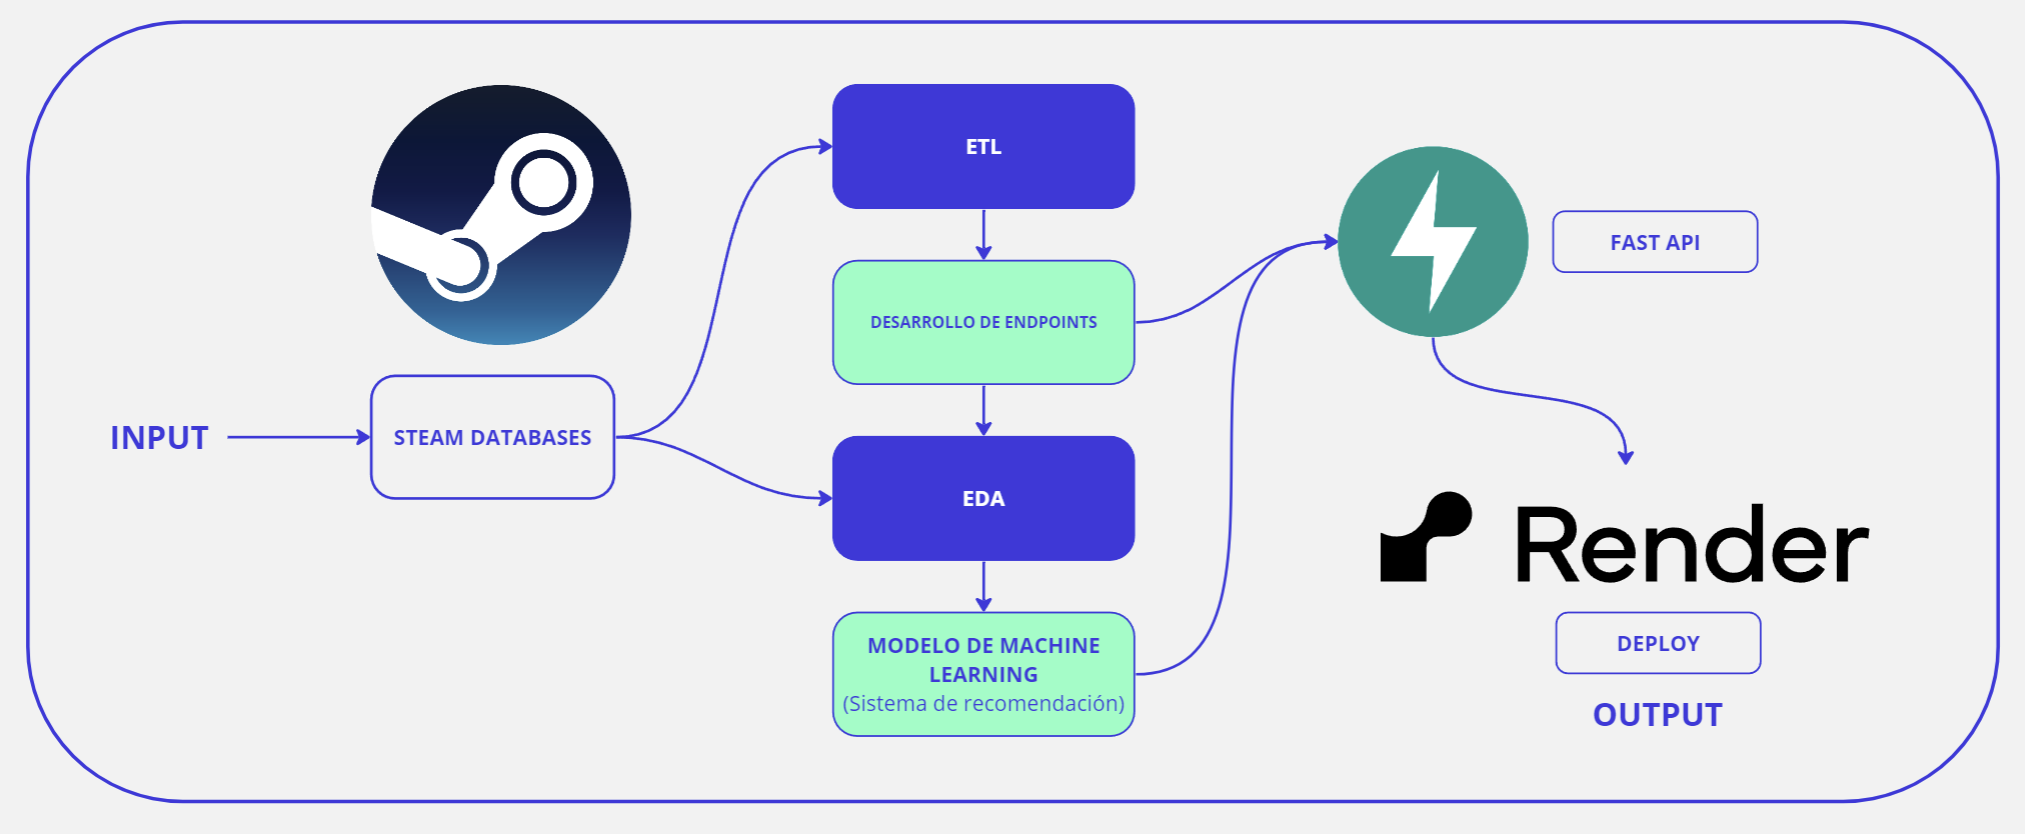
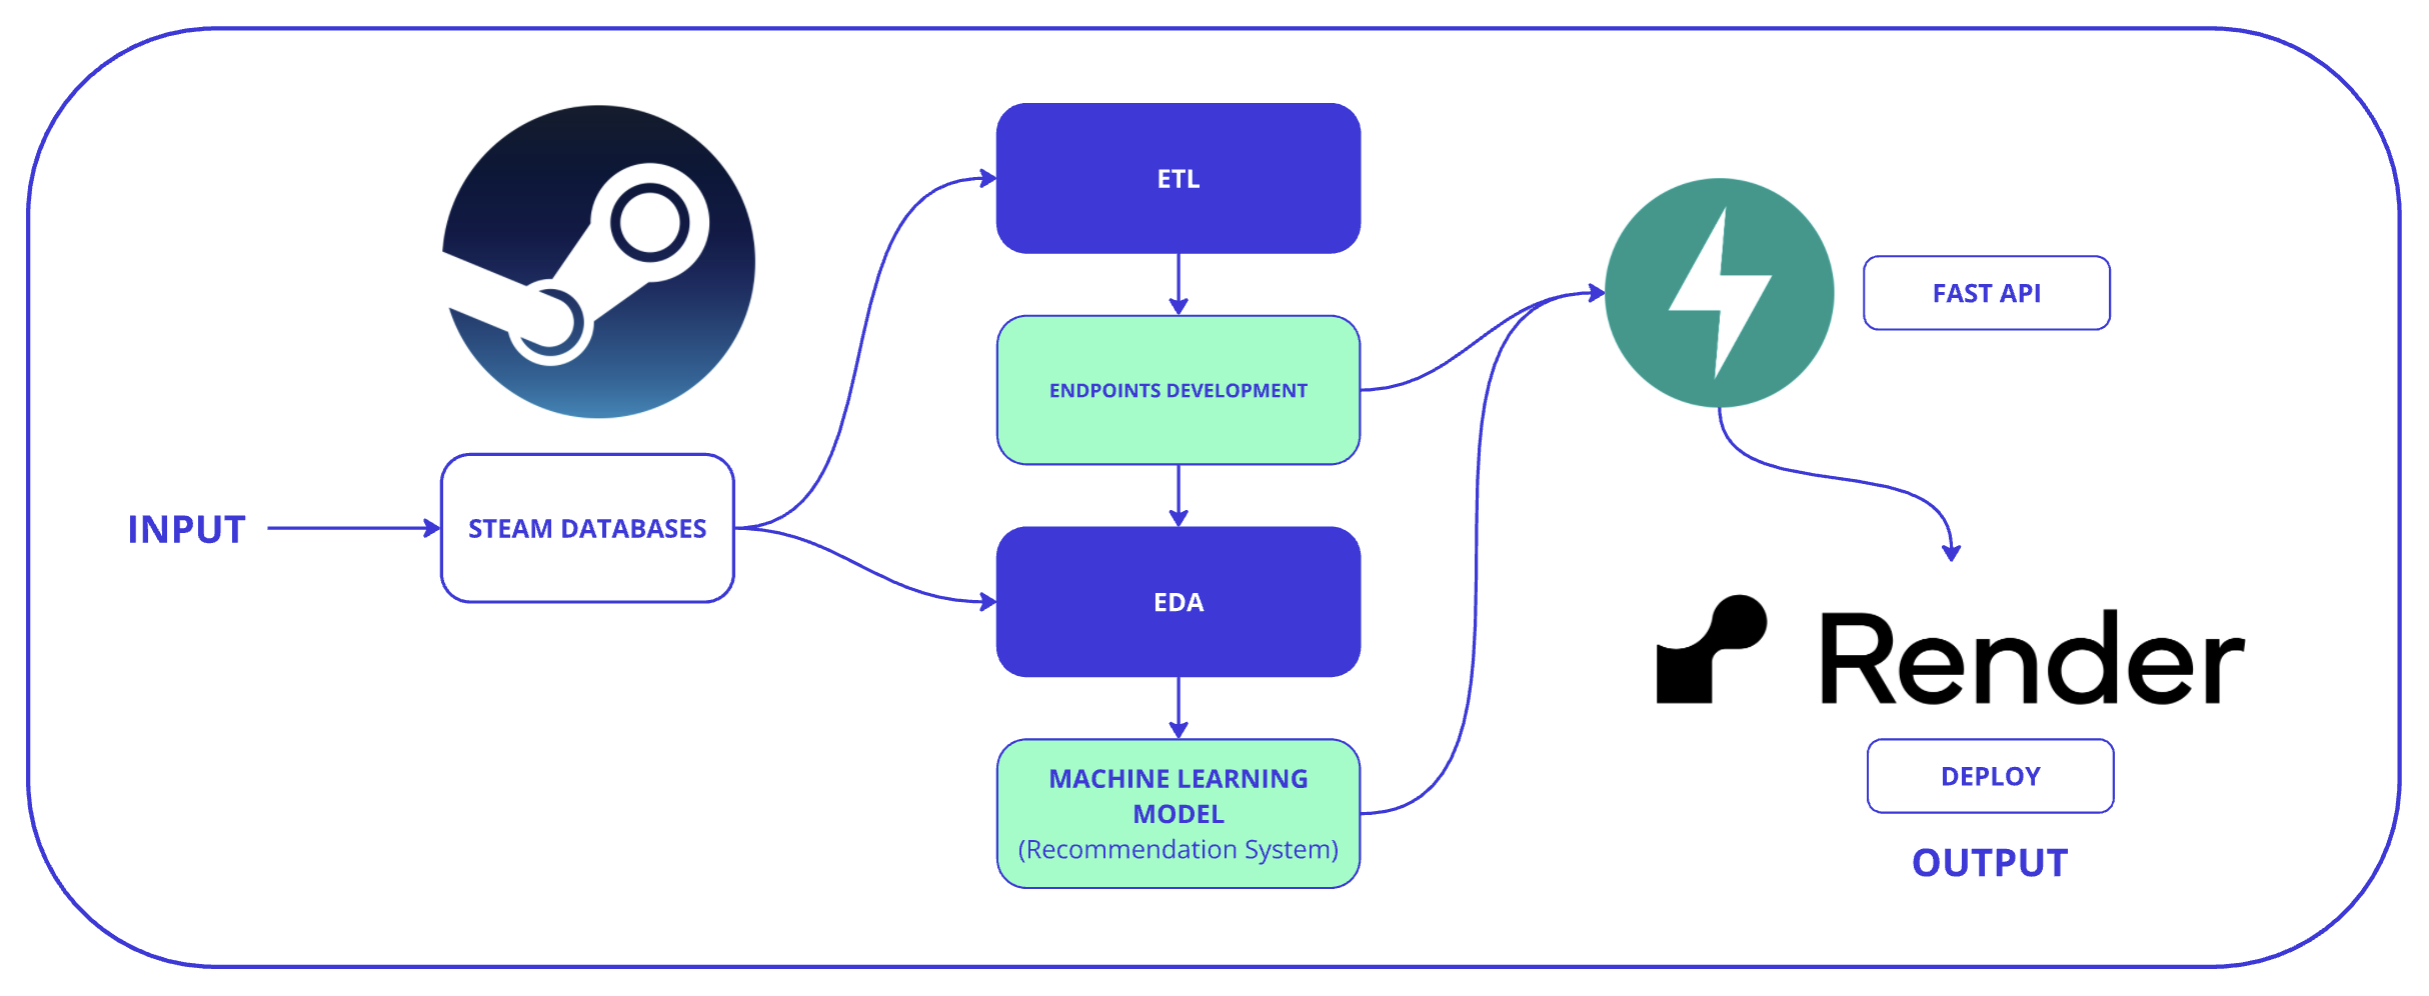
English translate

diff --git a/Readme.md b/Readme.md
@@ -1,103 +1,101 @@
 
 # <h1 align=left> MACHINE LEARNING OPERATIONS (MLOps) </h1>
-# <h3 align=left>**`PAULA DAHER`**</h3>
+# <h3 align=left>**`POL DAJER (PAULA DAHER)`**</h3>
 
 <p align="center">
 <img src="image.png" height=300>
 </p>
 
-# <h3 align=left>**`DESCRIPCIÓN DEL PROYECTO`**</h3>
+# <h3 align=left>**`PROJECT DESCRIPTION`**</h3>
 
-En este proyecto atravesaremos todas las etapas del ciclo de vida de un proyecto de Machine Learning, obteniendo como resultado final un desarrollo de una api deployada en render a traves de la cual se pueden hacer consultas a los registros de una base de datos de la plataforma Steam. 
-Además, se realiza el desarrollo de un modelo de machine learning de recomendación de videos juegos por similitud del coseno, al cual podemos acceder también a través de la api. 
-
-### El proyecto se divide en dos partes:
-
-**Parte I:** Data Engineering
-Se empieza desde cero, haciendo un trabajo rápido de Data Engineer con la recolección y extracción de datos de archivos, así como sus tratamiento, transformación y modelado. 
+In this project, we will go through all the stages of the lifecycle of a Machine Learning project, resulting in the development of an API deployed on Render, through which queries can be made to the records of a Steam (videogames) platform database. Additionally, a machine learning recommendation model for video games based on cosine similarity is developed, which can also be accessed through the API.
 
 
-**Parte II:** Machine Learning
-Se crea el modelo, se consumen los datos ya limpios, y se entrenar bajo ciertas condiciones. Como resultado se crea un sistema de recomendación de videojuegos para usuarios de Steam, utilizando técnicas de MLOps para asegurar que el modelo y la API sean escalables, reproducibles y mantenibles.
+### The project is divided into two parts:
 
+**Part I:** Data Engineering
+It starts from scratch, quickly working as a Data Engineer with data collection and extraction from files, as well as their processing, transformation, and modeling.
+
+**Part II:** Machine Learning
+The model is created, the cleaned data is consumed, and it is trained under certain conditions. As a result, a video game recommendation system for Steam users is created, using MLOps techniques to ensure that the model and the API are scalable, reproducible, and maintainable.
 
 
 </p>
 
-# <h3 align=left>**`OBJETIVOS`**</h3>
+# <h3 align=left>**`OBJECTIVES`**</h3>
 
-**Transformaciones de Datos:** Leer y limpiar el dataset, eliminando columnas innecesarias para optimizar el rendimiento sabiendo que la madurez de los datos es poca: Datos anidados, de tipo raw, no hay procesos automatizados para la actualización de nuevos productos, entre otras cosas.   
-[Link de descarga de Datasets sobre los que se les aplicó el ETL](https://drive.google.com/drive/folders/1HqBG2-sUkz_R3h1dZU5F2uAzpRn7BSpj)  
-[Diccionario de datos](https://docs.google.com/spreadsheets/d/1-t9HLzLHIGXvliq56UE_gMaWBVTPfrlTf2D9uAtLGrk/edit#gid=0)
+**Data Transformations:** Read and clean the dataset, removing unnecessary columns to optimize performance, knowing that data maturity is low: nested data, raw type, no automated processes for updating new products, among other things.   
+[Download link for the Datasets to which ETL was applied](https://drive.google.com/drive/folders/1HqBG2-sUkz_R3h1dZU5F2uAzpRn7BSpj)   
+[Data Dictionary](https://docs.google.com/spreadsheets/d/1-t9HLzLHIGXvliq56UE_gMaWBVTPfrlTf2D9uAtLGrk/edit#gid=0)
 
-**Feature Engineering:** Realizar análisis de sentimiento en las reseñas de usuarios y crear una nueva columna 'sentiment_analysis'. 
+**Feature Engineering:** Perform sentiment analysis on user reviews and create a new column 'sentiment_analysis'.
 
-**Desarrollo de API:** Implementar una API con FastAPI que permita consultar datos y recomendaciones. 
+**API Development:** Implement an API with FastAPI that allows querying data and recommendations.
 
-**Despliegue:** Desplegar la API en un servicio web para que sea accesible públicamente. 
+**Deployment:** Deploy the API on a web service to make it publicly accessible.
 
-**Análisis Exploratorio de Datos (EDA):** Explorar y visualizar los datos para obtener insights valiosos.
-[Artículo de interés](https://medium.com/swlh/introduction-to-exploratory-data-analysis-eda-d83424e47151)
+**Exploratory Data Analysis (EDA):** Explore and visualize the data to gain valuable insights.
+[Article of interest](https://medium.com/swlh/introduction-to-exploratory-data-analysis-eda-d83424e47151)
 
-**Modelo de Aprendizaje Automático:**   
-Desarrollar un sistema de recomendación basado en la similitud del coseno.
+**Machine Learning Model:**
+Develop a recommendation system based on cosine similarity. 
+
+# <h3 align=left>**`PROJECT STRUCTURE`**</h3>
+
+- **Data:**  .parquet In the repository, you will find 5 parquet files, results of the ETL, based on which the querying and modeling functions operate.
+- **Notebooks:** Jupyter notebooks for ETL and EDA.
+- **main.py:** Main file of the API (queries and recommendation model).
+- **requirements.txt:** List of project dependencies.
+- **README.md:** Project description and guide.
+
+# <h3 align=left>**`STEPS TAKEN`**</h3>
+
+1. Data Transformations:  
+The datasets were read in the correct format, and the data from the three databases used were cleaned and preprocessed. Unnecessary columns were removed, null values and nested data were handled, among other things.
+The transformations are documented in the notebooks [etl_steam](https://github.com/PaulaDaher/Proyecto_MLOps_STEAM/blob/main/EDA_steam.ipynb), [etl_user_items](https://github.com/PaulaDaher/Proyecto_MLOps_STEAM/blob/main/ETL_user_items.ipynb), and [etl_user_reviews](https://github.com/PaulaDaher/Proyecto_MLOps_STEAM/blob/main/ETL_user_reviews.ipynb)
+
+2. Feature Engineering:  
+Sentiment analysis was applied to user reviews:
+The 'sentiment_analysis' column was created with values 0 (negative), 1 (neutral), and 2 (positive) using the NLTK library: Sentiment analysis.
+A value of 1 was assigned to absent reviews.
+
+3. API Development:  
+The following endpoints were implemented in the API using FastAPI:
+
+- **developer(developer: str):** Number of items and percentage of Free content per year by developer.  
+- **userdata(User_id: str):** Amount of money spent by the user, recommendation percentage, and number of items.  
+- **UserForGenre(genre: str):** User with the most hours played for the given genre and accumulation of hours played by release year.  
+- **best_developer_year(year: int):** Top 3 developers with the most user-recommended games for the given year.  
+- **developer_reviews_analysis(developer: str):** Analysis of user reviews categorized by sentiment analysis (positive or negative).  
+- **game_recommendation(product_id: str):** List of 5 recommended games similar to the entered one.  
+
+4. Deployment:  
+The API was deployed using Render to make it publicly accessible from any internet-connected device.
+
+5. Exploratory Data Analysis (EDA):  
+An exploratory data analysis was conducted to better understand the relationships between variables, detect outliers, and find interesting patterns.
+
+6. Machine Learning Model:  
+A recommendation system based on cosine similarity was developed:
+- Input: Product ID.
+- Output: List of 5 recommended games similar to the entered one.
+
+7. Demonstration Video:  
+A video was created demonstrating the functionality of the API queries and the trained ML model. The video shows how queries are made and briefly explains the project's deployment.
+
+# <h3 align=left>**`TECHNOLOGY STACK`**</h3>
+- Python: Main programming language.
+- FastAPI: Framework for API development.
+- Pandas: Data manipulation and analysis.
+- Scikit-learn: Development of the recommendation model.
+- NLTK: Sentiment analysis.
+- Render: API deployment.
 
 
-# <h3 align=left>**`ESTRUCTURA DEL PROYECTO`**</h3>
-- **Data:.parquet** En el repositorio te encontraras con 5 archivos parquet, resultados del ETL, en base a los cuales funcionan las funciones de consulta y modelado.
-- **Notebooks:** Jupyter notebooks para ETL y para EDA.
-- **main.py:** Archivo principal de la API (consultas y modelo de recomendación).
-- **requirements.txt:** Lista de dependencias del proyecto.
-- **README.md:** Descripción y guía del proyecto.
-
-
-# <h3 align=left>**`PASOS REALIZADOS`**</h3>
-1. Transformaciones de Datos:  
-Se realizó la lectura de los dataset en el formato correcto, se realiza la limpieza y preprocesamiento de los datos de las tres bases sobre las cuales se trabajó. 
-Se eliminaron columnas innecesarias, se manejaron valores nulos y datos anidados entre otras cosas.   
-Las transformaciones se encuentran asentadas en los notebooks [etl_steam](https://github.com/PaulaDaher/Proyecto_MLOps_STEAM/blob/main/EDA_steam.ipynb), [etl_user_items](https://github.com/PaulaDaher/Proyecto_MLOps_STEAM/blob/main/ETL_user_items.ipynb) y [etl_user_reviews](https://github.com/PaulaDaher/Proyecto_MLOps_STEAM/blob/main/ETL_user_reviews.ipynb)
-
-2. Feature Engineering:   
-Se aplicó análisis de sentimiento en las reseñas de usuarios:
-Se creó la columna 'sentiment_analysis' con valores 0 (negativo), 1 (neutral) y 2 (positivo) a traves de la librería NLTK: Análisis de sentimiento.
-Se asignó un valor de 1 a las reseñas ausentes.
-
-3. Desarrollo de API:  
-Se implementaron los siguientes endpoints en la API utilizando FastAPI:
- - **developer(desarrollador: str):** Cantidad de items y porcentaje de contenido Free por año según empresa desarrolladora.
- - **userdata(User_id: str):** Cantidad de dinero gastado por el usuario, porcentaje de recomendación y cantidad de items.
- - **UserForGenre(genero: str):** Usuario con más horas jugadas para el género dado y acumulación de horas jugadas por año de lanzamiento.
- - **best_developer_year(año: int):** Top 3 de desarrolladores con juegos más recomendados por usuarios para el año dado.
- - **developer_reviews_analysis(desarrolladora: str):** Análisis de reseñas de usuarios categorizados con análisis de sentimiento (positivo o negativo).
- - **recomendacion_juego(id de producto: str):** Lista de 5 juegos recomendados similares al ingresado.
-
-4. Despliegue:  
-La API se desplegó utilizando Render para que sea accesible públicamente desde cualquier dispositivo conectado a Internet.
-
-5. Análisis Exploratorio de Datos (EDA):  
-Se realizó un análisis exploratorio de los datos para entender mejor las relaciones entre las variables, detectar outliers y patrones interesantes.
-
-6. Modelo de Aprendizaje Automático:  
-Se desarrolló un sistema de recomendación basado en la similitud del coseno:
- - Input: ID de un producto.
- - Output: Lista de 5 juegos recomendados similares al ingresado.
-
-7. Video de Demostración:  
-Se creó un video demostrando el funcionamiento de las consultas de la API y el modelo de ML entrenado. El video muestra cómo se realizan las consultas y explica brevemente el despliegue del proyecto.
-
-# <h3 align=left>**`TECNOLOGÍA UTILIZADA`**</h3>
-- Python: Lenguaje de programación principal.
-- FastAPI: Framework para el desarrollo de la API.
-- Pandas: Manipulación y análisis de datos.
-- Scikit-learn: Desarrollo del modelo de recomendación.
-- NLTK: Análisis de sentimiento.
-- Render: Despliegue de la API.
-
-
-# <h3 align=left>**`API Y VIDEO`**</h3>
-### Para más detalles, puedes consultar el código y los notebooks en este repositorio. Además, puedes acceder a la API y ver el video de demostración aquí:
-### [Acceder a la API](https://proyecto-mlops-steam-4gux.onrender.com)
-### [Ver video](https://drive.google.com/drive/u/0/folders/1QQB0huSYZECBoJL1wp-4G3Q5RqbGJpaG) 
+# <h3 align=left>**`API AND VIDEO`**</h3>
+### For more details, you can check the code and notebooks in this repository. Additionally, you can access the API and watch the demonstration video here:
+### [Access the API](https://proyecto-mlops-steam-4gux.onrender.com)
+### [Watch the video](https://drive.google.com/drive/u/0/folders/1QQB0huSYZECBoJL1wp-4G3Q5RqbGJpaG) (Spanish language)
 
 
 
